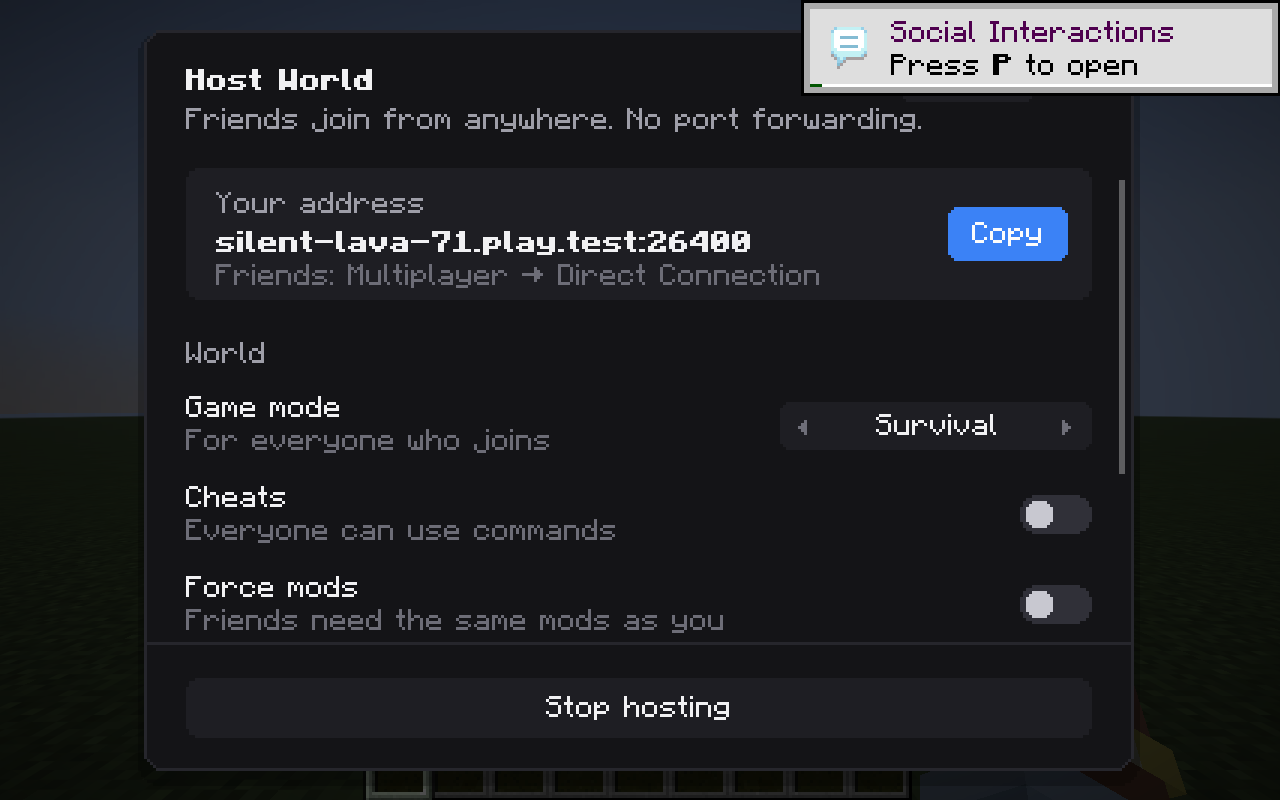
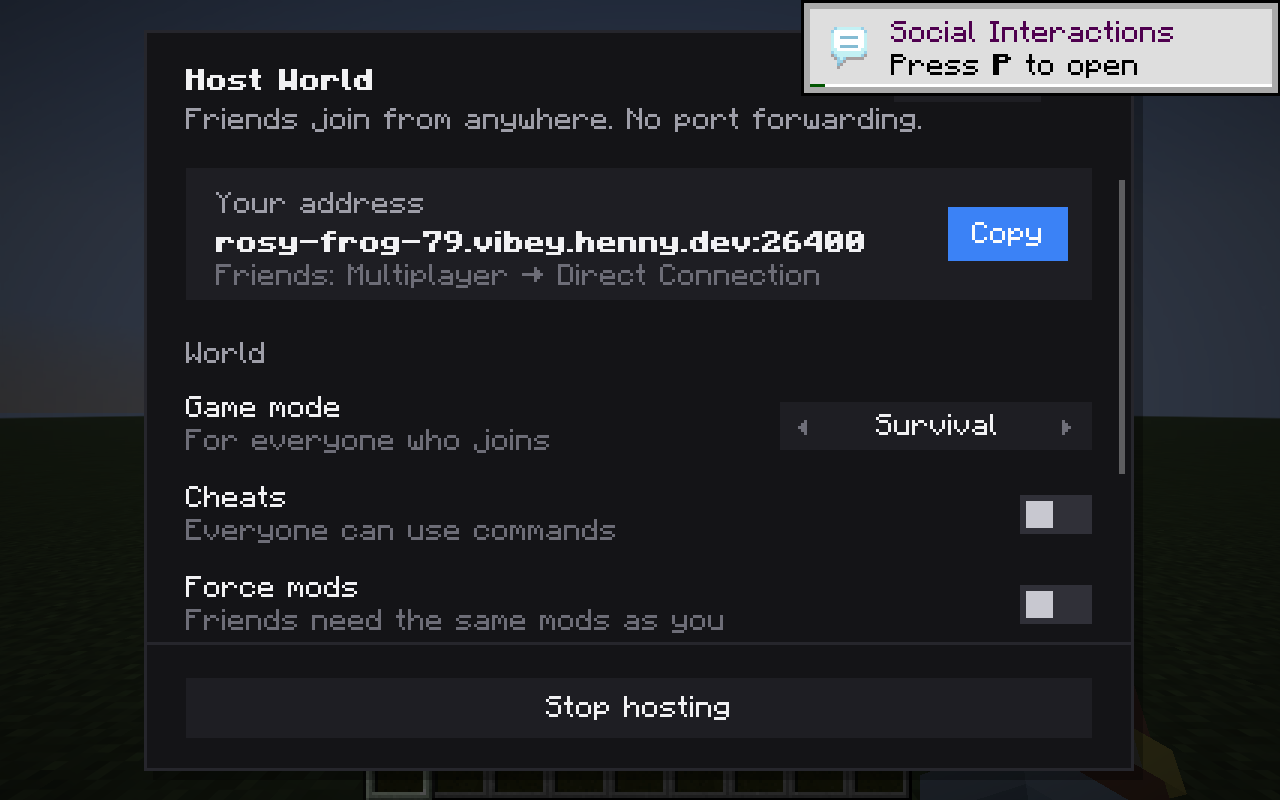
Square UI and vibey.henny.dev as relay domain
- Host screen drops all rounded corners to match the studio website
- Addresses live under *.vibey.henny.dev, the mod connects to
  relay.vibey.henny.dev:25565 by default
- Fresh screenshots from the client game test

Changed region(s): [[0.1562, 0.2812, 0.6875, 0.3125]]

diff --git a/relay/server.ts b/relay/server.ts
@@ -1,7 +1,7 @@
 // Vibey Multiplayer Relay
 //
 // Tunnel for worlds that are hosted inside a normal Minecraft client (the integrated server). Friends join with a
-// plain, unmodded Minecraft using a fixed address like `mossy-otter-27.play.example.com`; the relay reads the host
+// plain, unmodded Minecraft using a fixed address like `mossy-otter-27.vibey.henny.dev`; the relay reads the host
 // name out of the Minecraft handshake and hands the connection to the client that owns this address.
 //
 // Every player (Mojang UUID) owns exactly one address. It stays the same across sessions and worlds until the
@@ -26,7 +26,7 @@
 //   Data connection (one per joining player):
 //     C -> S  {"t":"data","sid":7,"key":"<hex>"}\n followed by raw bytes in both directions.
 //
-// Environment: PORT (25565), DOMAIN (play.example.com, the wildcard DNS name), PUBLIC_PORT (shown in addresses,
+// Environment: PORT (25565), DOMAIN (vibey.henny.dev, the wildcard DNS name), PUBLIC_PORT (shown in addresses,
 // defaults to PORT), DATA_DIR (./data), ALLOW_OFFLINE (1 = skip the Mojang check, only for local testing),
 // HTTP_PORT (optional health/stats endpoint), MAX_STREAMS (64 per host).
 
@@ -37,7 +37,7 @@ import * as path from "node:path";
 import * as crypto from "node:crypto";
 
 const PORT = Number(process.env.PORT ?? 25565);
-const DOMAIN = (process.env.DOMAIN ?? "play.example.com").toLowerCase().replace(/^\.+|\.+$/g, "");
+const DOMAIN = (process.env.DOMAIN ?? "vibey.henny.dev").toLowerCase().replace(/^\.+|\.+$/g, "");
 const PUBLIC_PORT = Number(process.env.PUBLIC_PORT ?? PORT);
 const DATA_DIR = process.env.DATA_DIR ?? path.join(process.cwd(), "data");
 const ALLOW_OFFLINE = process.env.ALLOW_OFFLINE === "1";
@@ -232,7 +232,7 @@ function parseHandshake(buf: Buffer): Handshake | null {
   return { protocol: proto[0], host, port, next: next[0], length: start + packetLen };
 }
 
-/** `Mossy-Otter-27.play.example.com.\0FML3\0` -> `mossy-otter-27` (or null if it is not one of ours). */
+/** `Mossy-Otter-27.vibey.henny.dev.\0FML3\0` -> `mossy-otter-27` (or null if it is not one of ours). */
 function labelFromHost(host: string): string | null {
   let h = host.split("\0")[0].trim().toLowerCase().replace(/\.+$/, "");
   if (h.endsWith("." + DOMAIN)) h = h.slice(0, -(DOMAIN.length + 1));

diff --git a/src/main/java/dev/henny/vibey/client/HostScreen.java b/src/main/java/dev/henny/vibey/client/HostScreen.java
@@ -22,7 +22,7 @@ import java.util.Map;
 import java.util.UUID;
 
 /**
- * The host screen: one card, three simple switches, the player list and a folded "Advanced" part. Drawn by hand
+ * The host screen, square like the studio website: one card, three simple switches, the player list and a folded "Advanced" part. Drawn by hand
  * (immediate mode): every frame lays everything out again and records the clickable areas for the next click.
  */
 public final class HostScreen extends BaseScreen {
@@ -116,9 +116,9 @@ public final class HostScreen extends BaseScreen {
         int y = (height - h) / 2 + Math.round((1f - open) * 8);
 
         // Card with a soft shadow
-        g.round(x - 2, y + 1, w + 4, h + 4, 8, 0x40000000);
-        g.round(x, y, w, h, 7, CARD);
-        g.roundOutline(x, y, w, h, 7, CARD_LINE);
+        g.rect(x + 3, y + 3, w, h, 0x50000000);
+        g.rect(x, y, w, h, CARD);
+        g.outline(x, y, w, h, CARD_LINE);
 
         drawHeader(g, x, y, w);
 
@@ -152,7 +152,7 @@ public final class HostScreen extends BaseScreen {
             int track = bottom - top - 8;
             int thumb = Math.max(16, track * (bottom - top) / Math.max(1, contentHeight));
             int ty = top + 4 + (int) ((track - thumb) * (scroll / maxScroll));
-            g.round(x + w - 5, ty, 2, thumb, 1, 0x50FFFFFF);
+            g.rect(x + w - 5, ty, 2, thumb, 0x50FFFFFF);
         }
 
         drawFooter(g, x, bottom, w);
@@ -166,7 +166,7 @@ public final class HostScreen extends BaseScreen {
         int cx = x + w - PAD - 9;
         int cyy = y + 11;
         boolean hov = hover(cx - 3, cyy - 3, 15, 15);
-        if (hov) g.round(cx - 3, cyy - 3, 15, 15, 4, SURFACE_HOVER);
+        if (hov) g.rect(cx - 3, cyy - 3, 15, 15, SURFACE_HOVER);
         cross(g, cx, cyy, 9, hov ? TEXT : MUTED);
         hit(cx - 3, cyy - 3, 15, 15, this::onClose);
 
@@ -199,14 +199,15 @@ public final class HostScreen extends BaseScreen {
         int pw = g.width(label) + 20;
         int px = cx - 8 - pw;
         int py = y + 10;
-        g.round(px, py, pw, 14, 7, SURFACE);
+        g.rect(px, py, pw, 14, SURFACE);
         float pulse = st == HostSession.Status.CONNECTING || st == HostSession.Status.RECONNECTING
                 ? 0.55f + 0.45f * (float) Math.sin(System.currentTimeMillis() / 180.0) : 1f;
         if (st == HostSession.Status.ONLINE) {
             float ring = (System.currentTimeMillis() % 1600) / 1600f;
-            g.circle(px + 8, py + 7, 2 + Math.round(ring * 3), alpha(color, (1f - ring) * 0.35f));
+            int r = 2 + Math.round(ring * 3);
+            g.outline(px + 8 - r, py + 7 - r, r * 2, r * 2, alpha(color, (1f - ring) * 0.5f));
         }
-        g.circle(px + 8, py + 7, 2, alpha(color, pulse));
+        g.rect(px + 6, py + 5, 4, 4, alpha(color, pulse));
         g.text(label, px + 14, py + 3, st == HostSession.Status.OFF ? MUTED : TEXT);
     }
 
@@ -215,8 +216,8 @@ public final class HostScreen extends BaseScreen {
         if (st == HostSession.Status.ERROR) {
             List<String> lines = wrap(g, HostSession.error(), w - 20);
             int h = 22 + lines.size() * 10 + 12;
-            g.round(x, y, w, h, 5, 0xFF2A1416);
-            g.roundOutline(x, y, w, h, 5, 0xFF4A2024);
+            g.rect(x, y, w, h, 0xFF2A1416);
+            g.outline(x, y, w, h, 0xFF4A2024);
             g.text(I18n.get("vibey.status.error"), x + 10, y + 8, RED);
             int ly = y + 21;
             for (String l : lines) {
@@ -228,7 +229,7 @@ public final class HostScreen extends BaseScreen {
         }
 
         int h = 44;
-        g.round(x, y, w, h, 5, SURFACE);
+        g.rect(x, y, w, h, SURFACE);
         g.text(I18n.get("vibey.address"), x + 10, y + 8, MUTED);
 
         String address = HostSession.address();
@@ -244,7 +245,7 @@ public final class HostScreen extends BaseScreen {
             int by = y + 13;
             boolean hov = hover(bx, by, btnW, 18);
             int bg = copied ? 0xFF1F3A28 : (hov ? ACCENT_HOVER : ACCENT);
-            g.round(bx, by, btnW, 18, 4, bg);
+            g.rect(bx, by, btnW, 18, bg);
             g.textCenter(bl, bx + btnW / 2, by + 5, copied ? GREEN : 0xFFFFFFFF);
             hit(bx, by, btnW, 18, () -> {
                 this.minecraft.keyboardHandler.setClipboard(address);
@@ -312,7 +313,7 @@ public final class HostScreen extends BaseScreen {
 
         List<Guests.View> guests = players.stream().filter(p -> !p.host()).toList();
         if (guests.isEmpty()) {
-            g.round(x, y, w, 26, 5, SURFACE);
+            g.rect(x, y, w, 26, SURFACE);
             String key = HostSession.isHosting() ? "vibey.players.empty" : "vibey.players.offline";
             g.textCenter(g.clip(I18n.get(key), w - 16), x + w / 2, y + 9, DIM);
             return y + 26;
@@ -320,7 +321,7 @@ public final class HostScreen extends BaseScreen {
         for (Guests.View p : guests) {
             int h = 24;
             boolean hov = hover(x, y, w, h);
-            g.round(x, y, w, h, 5, hov ? SURFACE_HOVER : SURFACE);
+            g.rect(x, y, w, h, hov ? SURFACE_HOVER : SURFACE);
             avatar(g, p.id(), p.name(), x + 6, y + 5);
             g.text(g.clip(p.name(), w - 110), x + 26, y + 8, TEXT);
 
@@ -328,7 +329,7 @@ public final class HostScreen extends BaseScreen {
             int kx = x + w - 6 - 16;
             int ky = y + 4;
             boolean kh = hover(kx, ky, 16, 16);
-            if (kh) g.round(kx, ky, 16, 16, 4, 0xFF3A1C1F);
+            if (kh) g.rect(kx, ky, 16, 16, 0xFF3A1C1F);
             cross(g, kx + 4, ky + 4, 8, kh ? RED : DIM);
             UUID id = p.id();
             hit(kx, ky, 16, 16, () -> Guests.kick(id));
@@ -339,7 +340,7 @@ public final class HostScreen extends BaseScreen {
             int ox = kx - 6 - ow;
             boolean oh = hover(ox, ky + 1, ow, 14);
             int bg = p.op() ? (oh ? ACCENT_HOVER : ACCENT) : (oh ? SURFACE_2 : 0xFF24242A);
-            g.round(ox, ky + 1, ow, 14, 4, bg);
+            g.rect(ox, ky + 1, ow, 14, bg);
             g.textCenter(op, ox + ow / 2, ky + 4, p.op() ? 0xFFFFFFFF : MUTED);
             boolean isOp = p.op();
             hit(ox, ky + 1, ow, 14, () -> Guests.setOp(id, !isOp));
@@ -397,7 +398,7 @@ public final class HostScreen extends BaseScreen {
         int ry = y + rowH / 2 - 8;
         boolean rh = canRotate && hover(rx, ry, rw, 16);
         int rbg = !canRotate ? 0xFF1A1A1E : armed ? (rh ? 0xFFFF7A70 : RED) : (rh ? SURFACE_2 : SURFACE);
-        g.round(rx, ry, rw, 16, 4, rbg);
+        g.rect(rx, ry, rw, 16, rbg);
         g.textCenter(rl, rx + rw / 2, ry + 4, !canRotate ? DIM : armed ? 0xFFFFFFFF : TEXT);
         if (canRotate) {
             hit(rx, ry, rw, 16, () -> {
@@ -416,8 +417,8 @@ public final class HostScreen extends BaseScreen {
         int bx = x + w - bw;
         int by = y + rowH / 2 - 8;
         boolean focused = relayBox.isFocused();
-        g.round(bx, by, bw, 16, 4, focused ? SURFACE_2 : SURFACE);
-        if (focused) g.roundOutline(bx, by, bw, 16, 4, ACCENT);
+        g.rect(bx, by, bw, 16, focused ? SURFACE_2 : SURFACE);
+        if (focused) g.outline(bx, by, bw, 16, ACCENT);
         relayBox.setX(bx + 6);
         relayBox.setY(by + 4);
         relayBox.setWidth(bw - 10);
@@ -457,7 +458,7 @@ public final class HostScreen extends BaseScreen {
             bg = hov ? ACCENT_HOVER : ACCENT;
             fg = 0xFFFFFFFF;
         }
-        g.round(bx, by, bw, bh, 5, bg);
+        g.rect(bx, by, bw, bh, bg);
         g.textCenter(label, bx + bw / 2, by + 6, fg);
         if (canHost) {
             hit(bx, by, bw, bh, () -> {
@@ -497,10 +498,10 @@ public final class HostScreen extends BaseScreen {
         float t = anim("t." + id, on ? 1f : 0f, 18f);
         boolean hov = hover(tx - 4, ty - 4, tw + 8, th + 8);
         int track = mix(hov ? 0xFF3A3A44 : 0xFF303038, hov ? ACCENT_HOVER : ACCENT, t);
-        g.round(tx, ty, tw, th, 6, track);
+        g.rect(tx, ty, tw, th, track);
         int knob = th - 4;
         int kx = tx + 2 + Math.round(t * (tw - knob - 4));
-        g.round(kx, ty + 2, knob, knob, knob / 2, mix(0xFFC8C8D0, 0xFFFFFFFF, t));
+        g.rect(kx, ty + 2, knob, knob, mix(0xFFC8C8D0, 0xFFFFFFFF, t));
         hit(tx - 4, ty - 4, tw + 8, th + 8, action);
     }
 
@@ -514,7 +515,7 @@ public final class HostScreen extends BaseScreen {
         int py = cy - 8;
         boolean hl = hover(px, py, pw / 2, 16);
         boolean hr = hover(px + pw / 2, py, pw - pw / 2, 16);
-        g.round(px, py, pw, 16, 4, hl || hr ? SURFACE_HOVER : SURFACE);
+        g.rect(px, py, pw, 16, hl || hr ? SURFACE_HOVER : SURFACE);
         g.textCenter(g.clip(label, pw - 28), px + pw / 2, py + 4, TEXT);
         arrow(g, px + 6, py + 5, false, hl ? TEXT : DIM);
         arrow(g, px + pw - 10, py + 5, true, hr ? TEXT : DIM);
@@ -535,13 +536,13 @@ public final class HostScreen extends BaseScreen {
         int vw = 24;
         int x = right - bw * 2 - vw;
         int y = cy - 8;
-        g.round(x, y, bw * 2 + vw, 16, 4, SURFACE);
+        g.rect(x, y, bw * 2 + vw, 16, SURFACE);
         boolean canDown = value > min;
         boolean canUp = value < max;
         boolean hd = canDown && hover(x, y, bw, 16);
         boolean hu = canUp && hover(x + bw + vw, y, bw, 16);
-        if (hd) g.round(x, y, bw, 16, 4, SURFACE_2);
-        if (hu) g.round(x + bw + vw, y, bw, 16, 4, SURFACE_2);
+        if (hd) g.rect(x, y, bw, 16, SURFACE_2);
+        if (hu) g.rect(x + bw + vw, y, bw, 16, SURFACE_2);
         g.rect(x + 5, y + 7, 6, 2, canDown ? (hd ? TEXT : MUTED) : 0xFF3A3A42);
         int px = x + bw + vw;
         g.rect(px + 5, y + 7, 6, 2, canUp ? (hu ? TEXT : MUTED) : 0xFF3A3A42);
@@ -554,7 +555,7 @@ public final class HostScreen extends BaseScreen {
     private void avatar(Gfx g, UUID id, String name, int x, int y) {
         float hue = (id.hashCode() & 0xFFFF) / 65535f;
         int color = hsv(hue, 0.45f, 0.75f);
-        g.round(x, y, 14, 14, 4, color);
+        g.rect(x, y, 14, 14, color);
         String initial = name.isEmpty() ? "?" : name.substring(0, 1).toUpperCase();
         g.textCenter(initial, x + 7, y + 3, 0xFFFFFFFF);
     }

diff --git a/src/main/java/dev/henny/vibey/client/ui/Gfx.java b/src/main/java/dev/henny/vibey/client/ui/Gfx.java
@@ -33,46 +33,12 @@ public final class Gfx {
         fill(x, y, x + w, y + h, color);
     }
 
-    /** Filled rectangle with rounded corners, drawn row by row so it stays crisp at every GUI scale. */
-    public void round(int x, int y, int w, int h, int r, int color) {
-        r = Math.max(0, Math.min(r, Math.min(w, h) / 2));
-        if (r == 0) {
-            rect(x, y, w, h, color);
-            return;
-        }
-        fill(x, y + r, x + w, y + h - r, color);
-        for (int i = 0; i < r; i++) {
-            int inset = inset(r, i);
-            fill(x + inset, y + i, x + w - inset, y + i + 1, color);
-            fill(x + inset, y + h - 1 - i, x + w - inset, y + h - i, color);
-        }
-    }
-
-    /** Rounded outline of 1px. */
-    public void roundOutline(int x, int y, int w, int h, int r, int color) {
-        r = Math.max(0, Math.min(r, Math.min(w, h) / 2));
-        int top = r == 0 ? 0 : inset(r, 0);
-        fill(x + top, y, x + w - top, y + 1, color);
-        fill(x + top, y + h - 1, x + w - top, y + h, color);
-        fill(x, y + Math.max(r, 1), x + 1, y + h - Math.max(r, 1), color);
-        fill(x + w - 1, y + Math.max(r, 1), x + w, y + h - Math.max(r, 1), color);
-        for (int i = 1; i < r; i++) {
-            int in = inset(r, i);
-            int end = Math.max(in + 1, inset(r, i - 1));
-            fill(x + in, y + i, x + end, y + i + 1, color);
-            fill(x + w - end, y + i, x + w - in, y + i + 1, color);
-            fill(x + in, y + h - 1 - i, x + end, y + h - i, color);
-            fill(x + w - end, y + h - 1 - i, x + w - in, y + h - i, color);
-        }
-    }
-
-    private static int inset(int r, int row) {
-        double dy = r - row - 0.5;
-        return (int) Math.round(r - Math.sqrt(Math.max(0, r * r - dy * dy)));
-    }
-
-    public void circle(int cx, int cy, int r, int color) {
-        round(cx - r, cy - r, r * 2, r * 2, r, color);
+    /** 1px frame. */
+    public void outline(int x, int y, int w, int h, int color) {
+        fill(x, y, x + w, y + 1, color);
+        fill(x, y + h - 1, x + w, y + h, color);
+        fill(x, y + 1, x + 1, y + h - 1, color);
+        fill(x + w - 1, y + 1, x + w, y + h - 1, color);
     }
 
     public void text(String s, int x, int y, int color) {

diff --git a/README.md b/README.md
@@ -13,7 +13,7 @@ send it to your friends. They join with a normal, unmodded Minecraft through *Mu
 
 ## Features
 
-- **Your own address.** Every player gets one address like `mossy-otter-27.play.example.com`. It stays the same
+- **Your own address.** Every player gets one address like `mossy-otter-27.vibey.henny.dev`. It stays the same
   every time you host, in every world, until you decide to **renew** it (the old one stops working right away).
 - **Host World** button in the pause menu, in place of *Open to LAN*.
 - **Simple by default:** game mode for guests, cheats, force mods. That's it.
@@ -61,27 +61,28 @@ Fabric needs [Fabric API](https://modrinth.com/mod/fabric-api). The mod only run
 - Your world is published like *Open to LAN*; Vibey connects that port to the relay. Nothing else on your
   computer is reachable.
 - The relay proves who you are with the same Mojang session check servers use, so nobody can take your address.
-- Addresses come from wildcard DNS (`*.play.example.com`) pointing at the relay, so friends never type a port.
+- Addresses come from wildcard DNS (`*.vibey.henny.dev`) pointing at the relay, so friends never type a port.
 - When you are offline, your address still answers in the server list: *"This world is offline"*.
 
 ## Running the relay
 
 The relay is one file without dependencies: [`relay/server.ts`](relay/server.ts) (Node 23.6+ or Bun).
 
-1. Point a wildcard DNS record at your server: `*.play.example.com  A  <server IP>`.
+1. Point a wildcard DNS record at your server: `*.vibey.henny.dev  A  <server IP>`.
 2. Start it:
    ```bash
    cd relay
-   DOMAIN=play.example.com node server.ts
+   DOMAIN=vibey.henny.dev node server.ts
    # or: docker compose up -d   (edit DOMAIN in docker-compose.yml)
    ```
-3. Put the relay address into `default_relay` in [`gradle.properties`](gradle.properties) before building, or
-   let players enter it under *Advanced → Relay server*.
+3. The mod connects to `relay.vibey.henny.dev:25565` by default (`default_relay` in
+   [`gradle.properties`](gradle.properties)). That name is covered by the wildcard record, and `relay` can never be
+   handed out as an address. Players can point to another relay under *Advanced → Relay server*.
 
 | Variable | Default | |
 |---|---|---|
 | `PORT` | `25565` | Port for players **and** hosts |
-| `DOMAIN` | `play.example.com` | Wildcard domain of the addresses |
+| `DOMAIN` | `vibey.henny.dev` | Wildcard domain of the addresses |
 | `PUBLIC_PORT` | `PORT` | Port shown in addresses (if not 25565) |
 | `DATA_DIR` | `./data` | Where address ownership is stored (`addresses.json`) |
 | `HTTP_PORT` | off | `/health` and `/stats` |
